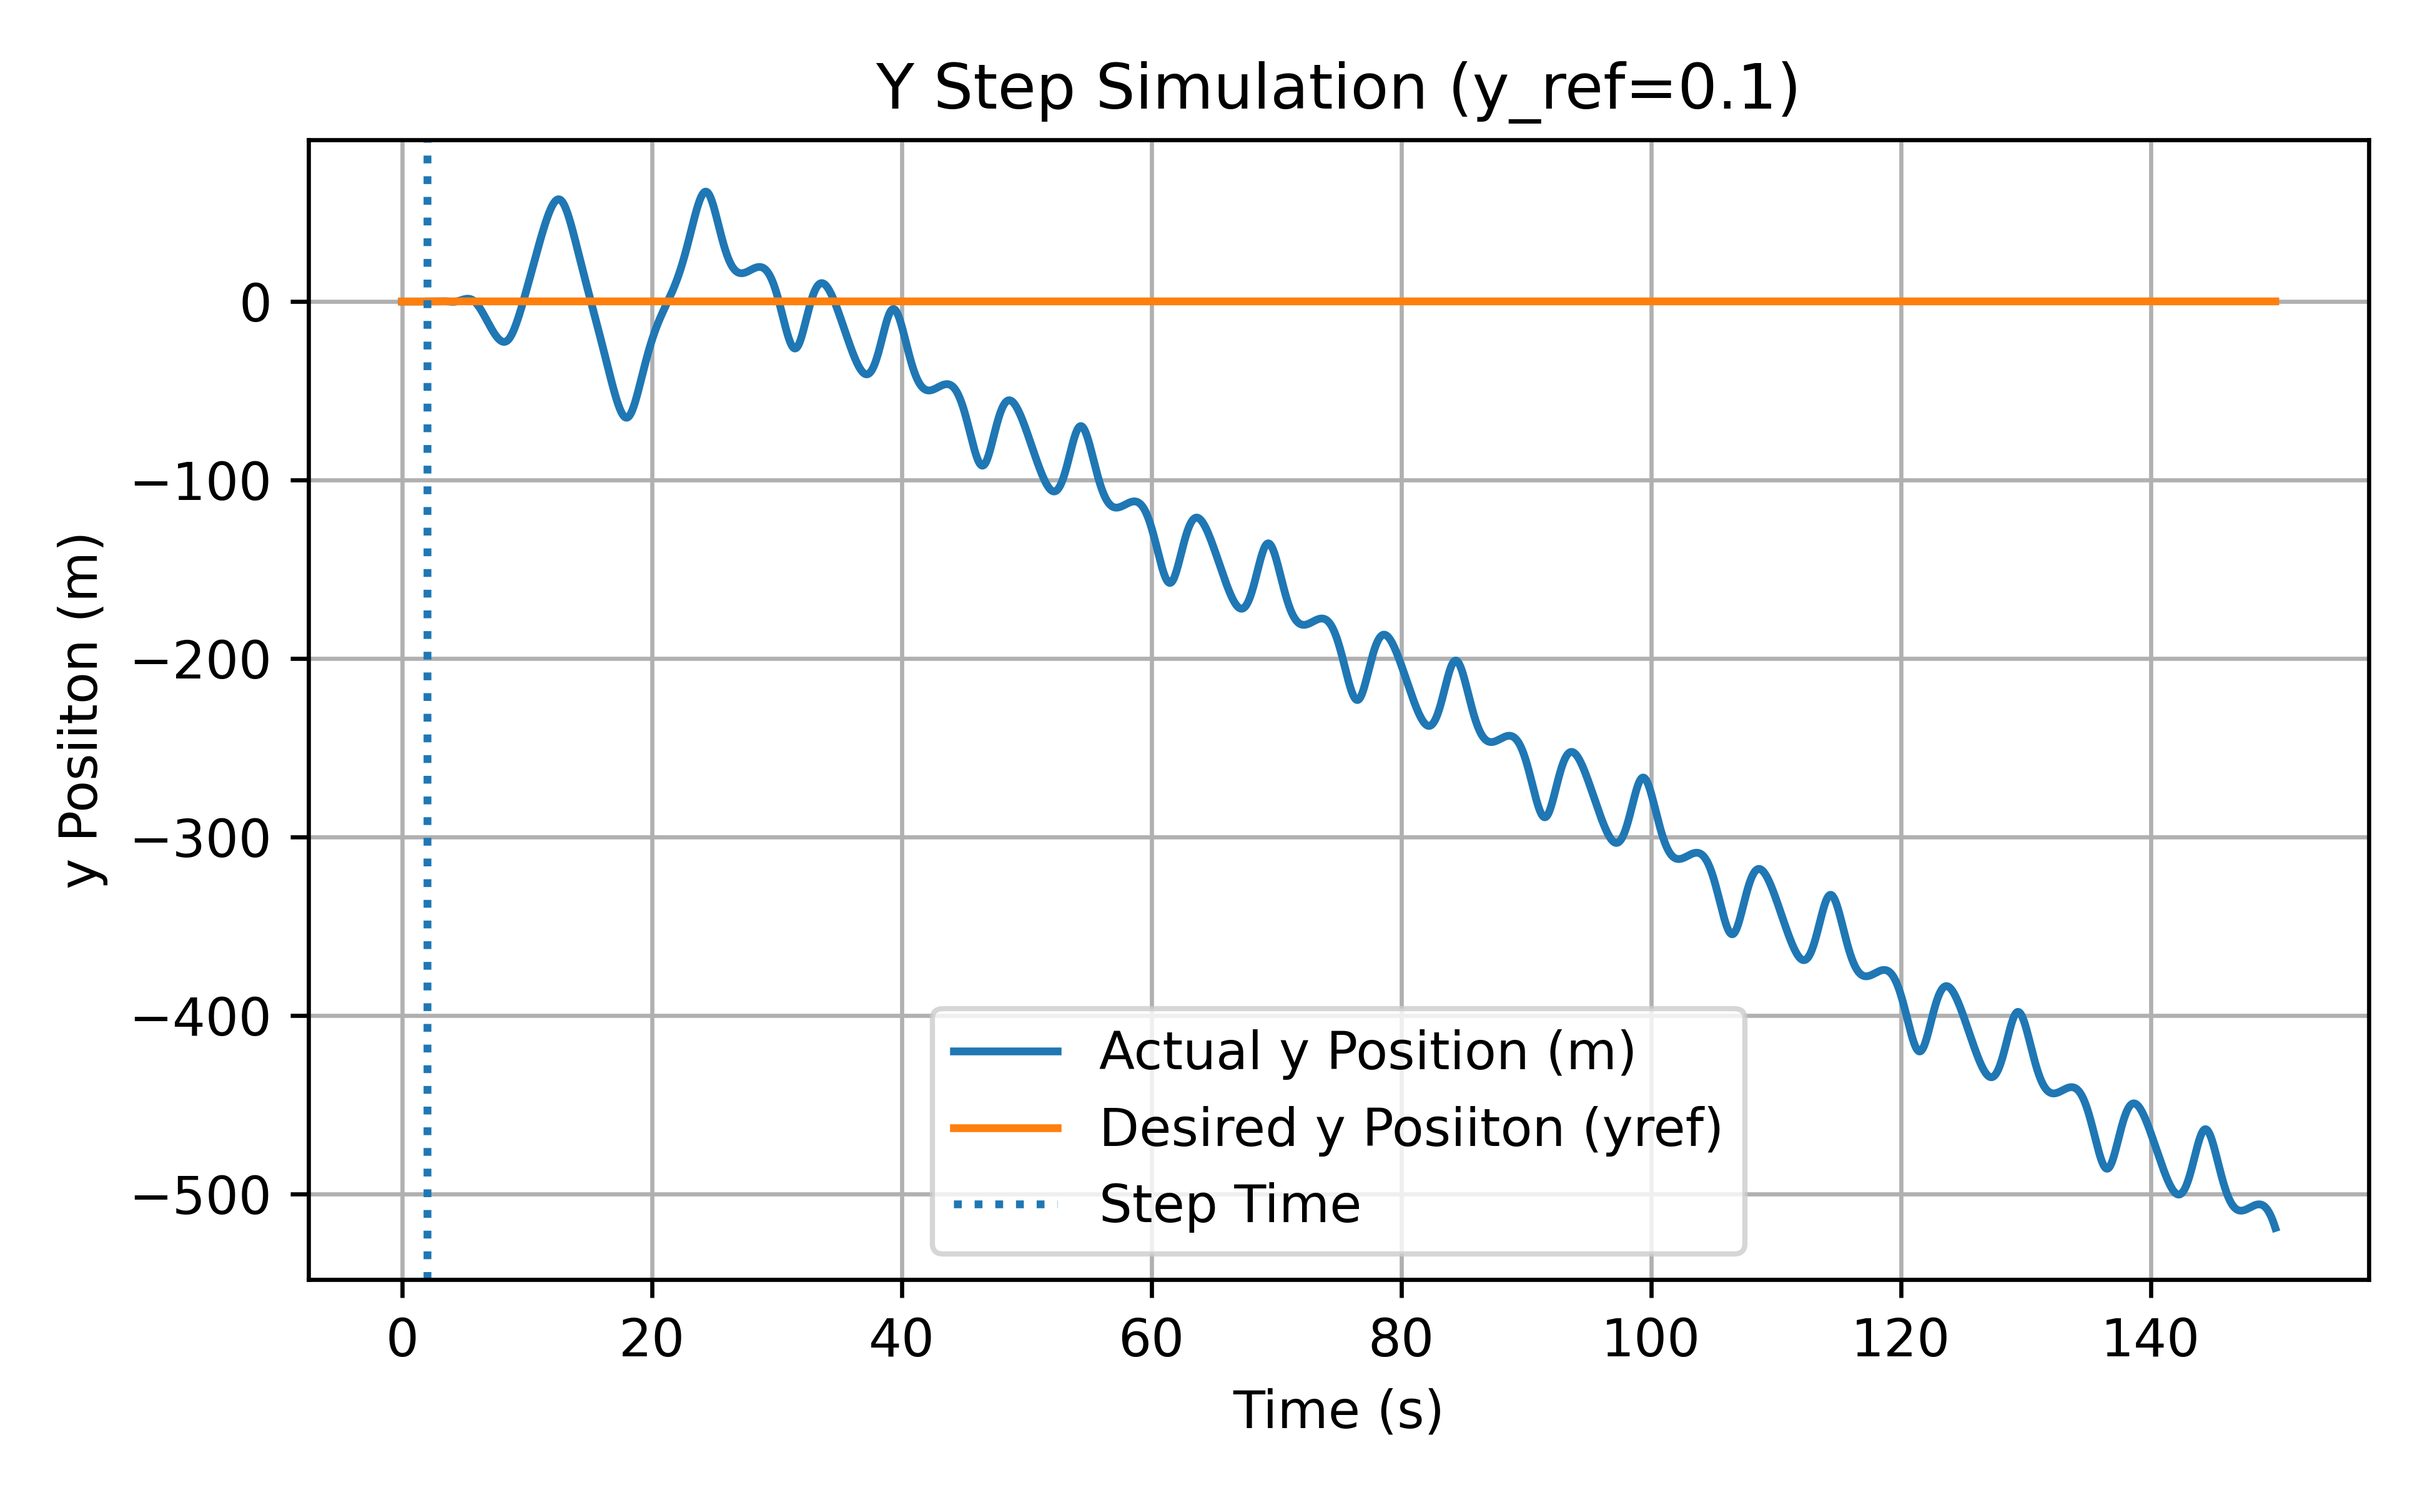
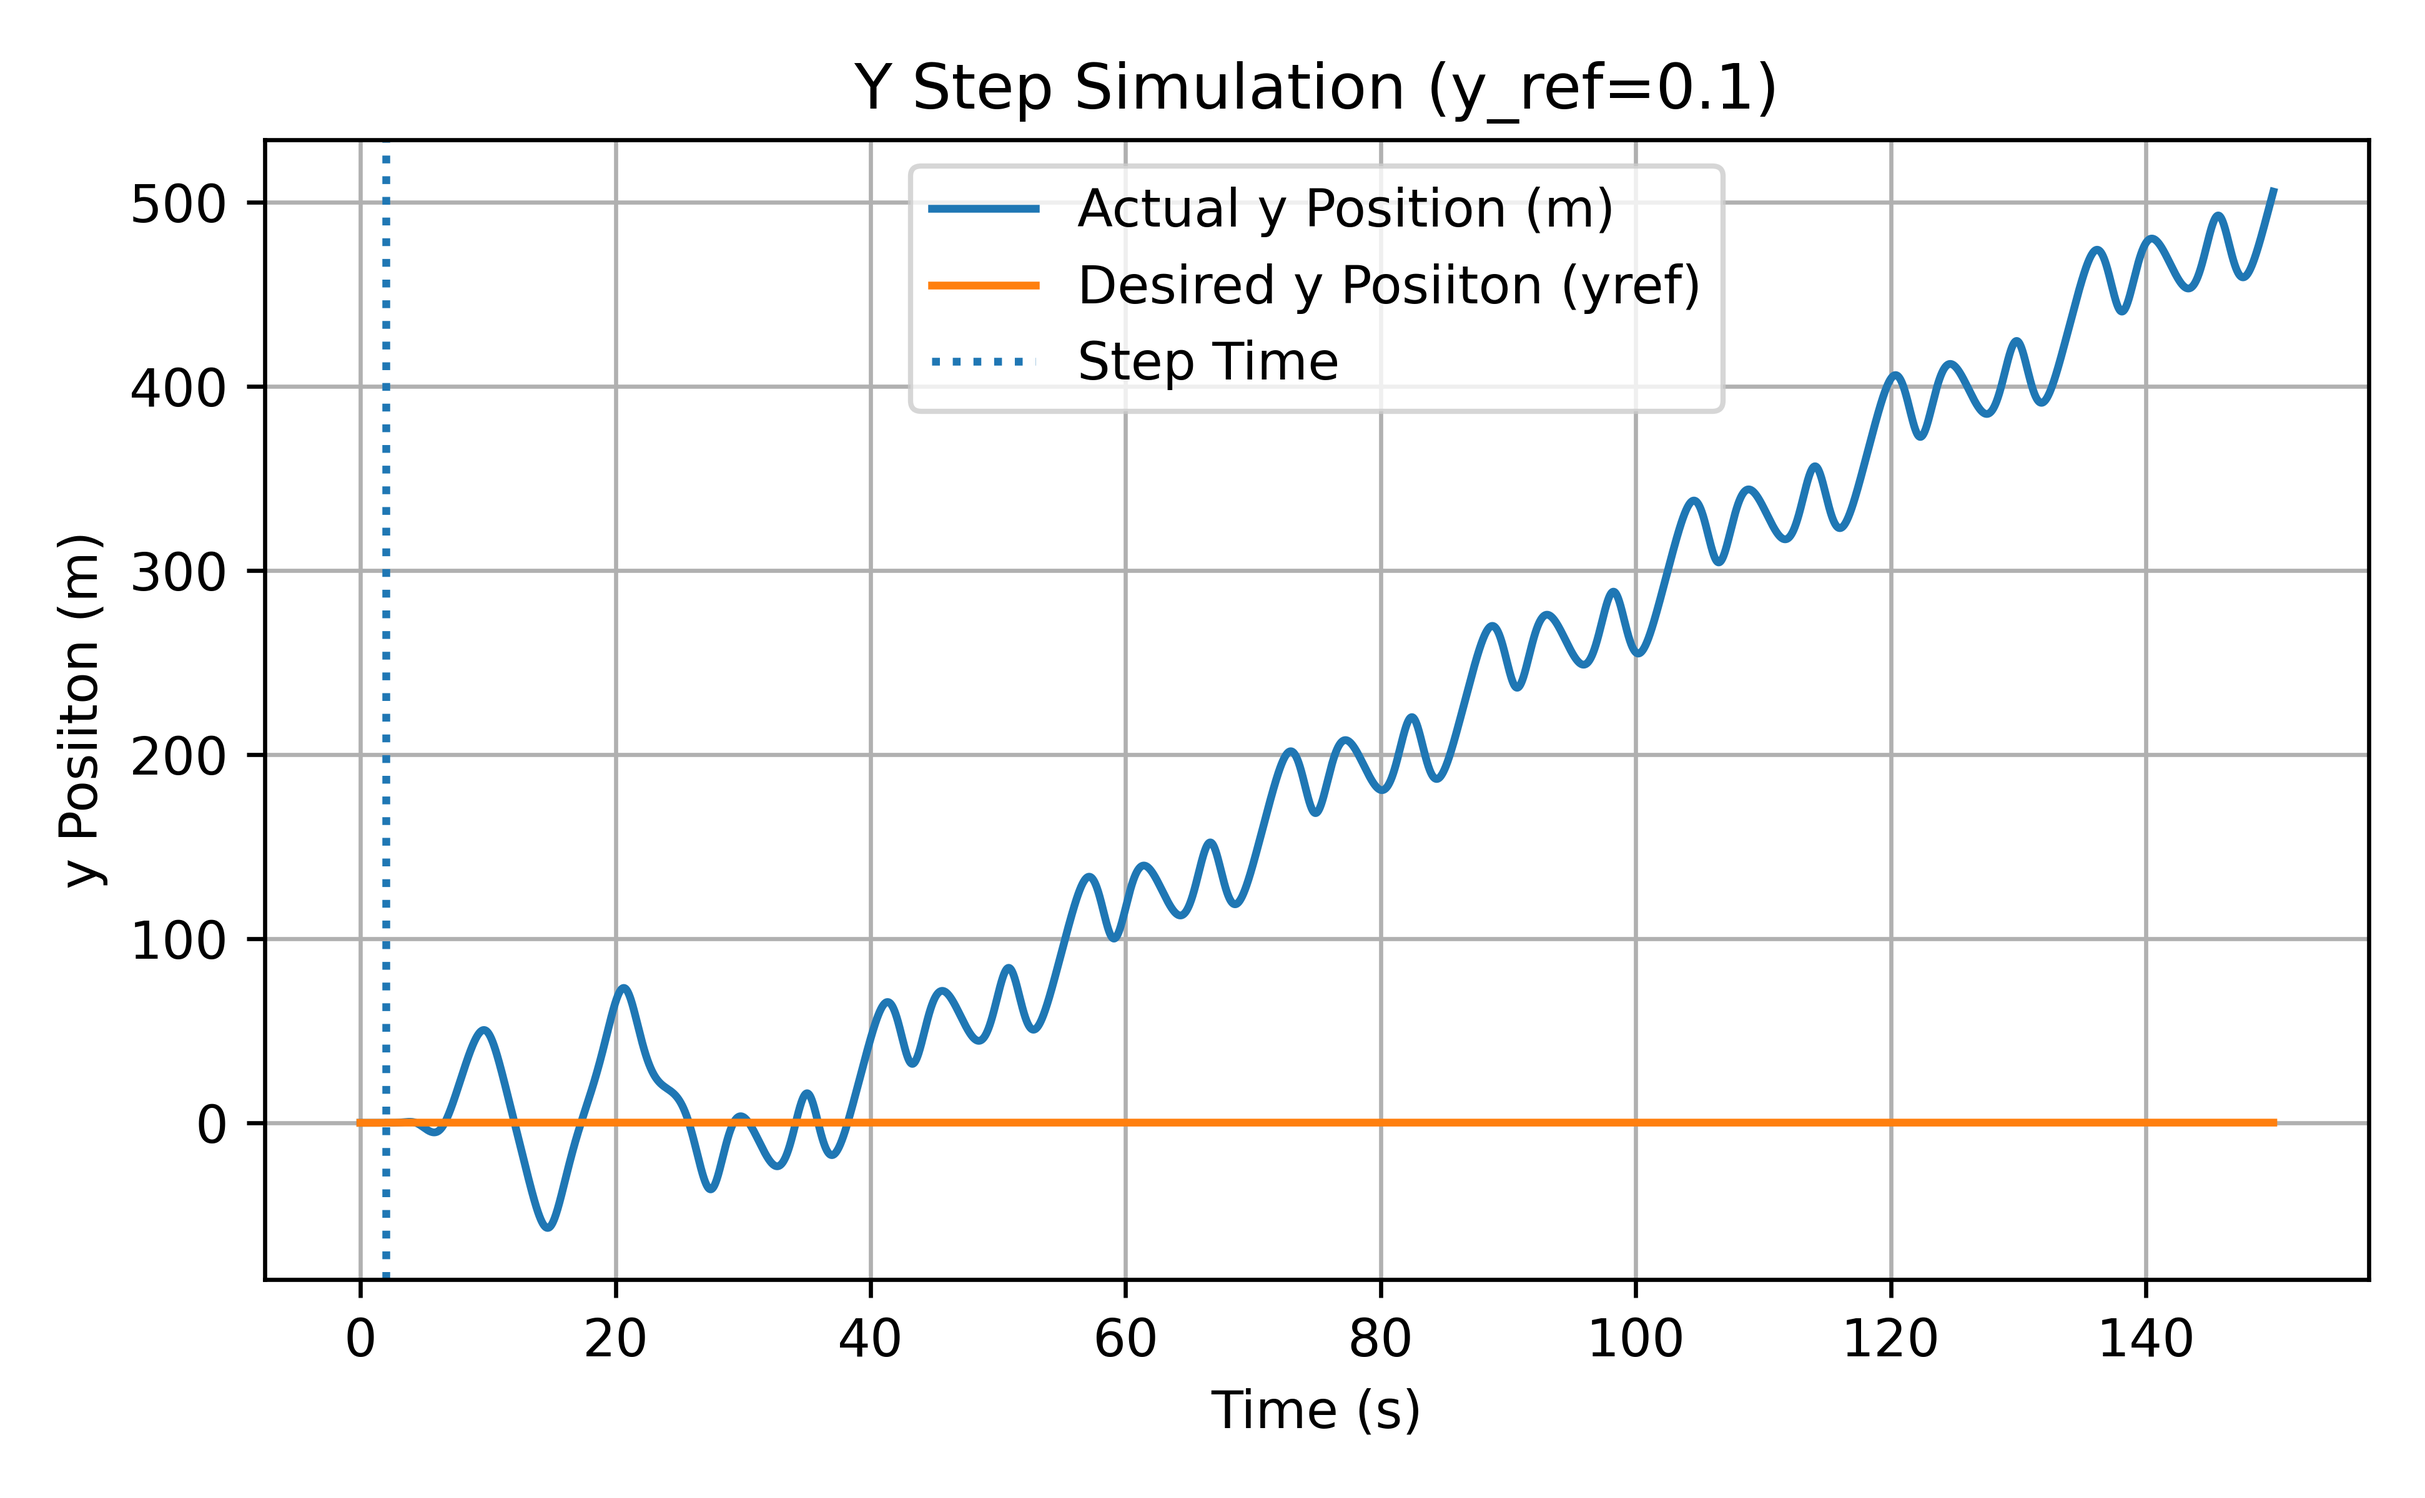
so many changes this wont work im frustrated

diff --git a/interactiveSim/controller_task3_analysis.py b/interactiveSim/controller_task3_analysis.py
@@ -6,6 +6,75 @@ import control as ct
 v0 = 27.78
 L = 2.7
 
+#-------------inner-------------
+#gains
+Kp_inner = 1
+
+print(f'\nUsing Controller Gains:')
+print(f'Kp = {Kp_inner}')
+
+s = ct.TransferFunction.s
+
+#plant
+P_inner = v0/L * 1/s
+
+#controller
+C_inner = Kp_inner
+
+TF_inner = C_inner * P_inner
+
+#bode plot
+plt.figure()
+ct.bode_plot(TF_inner, dB=True, display_margins=True)
+plt.suptitle(f'Bode Plot of Inner Transfer Function')
+
+#closed-loop TF
+T_feedback_inner = ct.feedback(TF_inner, 1)
+
+#step response
+t_inner = np.linspace(0, 1, 2000)
+t_resp_inner, y_inner = ct.step_response(T_feedback_inner, T=t_inner)
+
+y_final_inner = y_inner[-1]
+y_max_inner = np.max(y_inner)
+
+# Overshoot
+overshoot_inner = max(0, (y_max_inner - y_final_inner) / y_final_inner * 100)
+
+# Rise time 10–90%
+t_10 = np.where(y_inner >= 0.1 * y_final_inner)[0][0]
+t_90 = np.where(y_inner >= 0.9 * y_final_inner)[0][0]
+rise_time_inner = t_resp_inner[t_90] - t_resp_inner[t_10]
+
+# Settling time (2%)
+upper_inner = 1.02 * y_final_inner
+lower_inner = 0.98 * y_final_inner
+outside_inner = (y_inner > upper_inner) | (y_inner < lower_inner)
+if np.any(outside_inner):
+    last_idx_inner = np.where(outside_inner)[0][-1]
+    settling_time_inner = t_resp_inner[last_idx_inner]
+else:
+    settling_time_inner = 0
+
+# --- Print Metrics ---
+print(f'\nPerformance Metrics:')
+print(f'Final Value: {y_final_inner:.4f}')
+print(f'Overshoot: {overshoot_inner:.2f}%')
+print(f'Rise Time: {rise_time_inner:.4f} s')
+print(f'Settling Time: {settling_time_inner:.4f} s')
+
+# --- Plot Step Response ---
+plt.figure()
+plt.plot(t_resp_inner, y_inner)
+plt.axhline(1.0, color='r', linestyle='--', label='Reference')
+plt.title('Step Response with Prefiltered Closed Loop')
+plt.xlabel('Time (s)')
+plt.ylabel('Output')
+plt.grid(True)
+plt.legend()
+
+plt.show()
+
 #-------------outer-------------
 #gains
 Ki = 0.4039776818
@@ -15,23 +84,21 @@ print(f'\nUsing Controller Gains:')
 print(f'Kp = {Kp}')
 print(f'Ki = {Ki}')
 
-s = ct.TransferFunction.s
-
-#plant
-P = v0 / s
+# plant (outer plant includes closed-loop inner loop)
+P_outer = T_feedback_inner * (v0 / s)
 
 #controller
 C = (Kp * s + Ki) / s
 
-TF = C * P
+TF_outer = C * P_outer
 
 #bode plot
 plt.figure()
-ct.bode_plot(TF, dB=True, display_margins=True)
+ct.bode_plot(TF_outer, dB=True, display_margins=True)
 plt.suptitle(f'Bode Plot of Transfer Function')
 
 #closed-loop TF
-T_feedback = ct.feedback(TF, 1)
+T_feedback = ct.feedback(TF_outer, 1)
 
 #precompensator
 F = (Ki/Kp) / (s + Ki/Kp)
@@ -74,76 +141,6 @@ print(f'Settling Time: {settling_time:.4f} s')
 # --- Plot Step Response ---
 plt.figure()
 plt.plot(t_resp, y)
-plt.axhline(1.0, color='r', linestyle='--', label='Reference')
-plt.title('Step Response with Prefiltered Closed Loop')
-plt.xlabel('Time (s)')
-plt.ylabel('Output')
-plt.grid(True)
-plt.legend()
-
-plt.show()
-
-#------------Inner---------------
-#gains
-Kp_inner = 1
-
-print(f'\nUsing Controller Gains:')
-print(f'Kp = {Kp_inner}')
-
-s = ct.TransferFunction.s
-
-#plant
-P_inner = v0/L * 1/s
-
-#controller
-C_inner = Kp
-
-TF_inner = C_inner * P_inner
-
-#bode plot
-plt.figure()
-ct.bode_plot(TF_inner, dB=True, display_margins=True)
-plt.suptitle(f'Bode Plot of Inner Transfer Function')
-
-#closed-loop TF
-T_feedback_inner = ct.feedback(TF_inner, 1)
-
-
-#step response
-t_inner = np.linspace(0, 10, 2000)
-t_resp_inner, y_inner = ct.step_response(T_feedback_inner, T=t_inner)
-
-y_final_inner = y_inner[-1]
-y_max_inner = np.max(y_inner)
-
-# Overshoot
-overshoot_inner = max(0, (y_max_inner - y_final_inner) / y_final_inner * 100)
-
-# Rise time 10–90%
-t_10 = np.where(y_inner >= 0.1 * y_final_inner)[0][0]
-t_90 = np.where(y_inner >= 0.9 * y_final_inner)[0][0]
-rise_time_inner = t_resp_inner[t_90] - t_resp_inner[t_10]
-
-# Settling time (2%)
-upper_inner = 1.02 * y_final_inner
-lower_inner = 0.98 * y_final_inner
-outside_inner = (y_inner > upper_inner) | (y_inner < lower_inner)
-if np.any(outside_inner):
-    last_idx_inner = np.where(outside_inner)[0][-1]
-    settling_time_inner = t_resp_inner[last_idx_inner]
-else:
-    settling_time_inner = 0
-
-# --- Print Metrics ---
-print(f'\nPerformance Metrics:')
-print(f'Final Value: {y_final_inner:.4f}')
-print(f'Overshoot: {overshoot_inner:.2f}%')
-print(f'Rise Time: {rise_time_inner:.4f} s')
-print(f'Settling Time: {settling_time_inner:.4f} s')
-
-# --- Plot Step Response ---
-plt.figure()
-plt.plot(t_resp_inner, y_inner)
 plt.axhline(1.0, color='r', linestyle='--', label='Reference')
 plt.title('Step Response with Prefiltered Closed Loop')
 plt.xlabel('Time (s)')

diff --git a/interactiveSim/controller.py b/interactiveSim/controller.py
@@ -81,6 +81,9 @@ class Y_controller:
 
         Ki_outer = v0*Kp_outer**2/4
 
+        Ki_outer = 0.4039776818
+        Kp_inner = 0.2411807055
+
         #TODO none of this is used?
         # a = 0.2
         # b = 20
